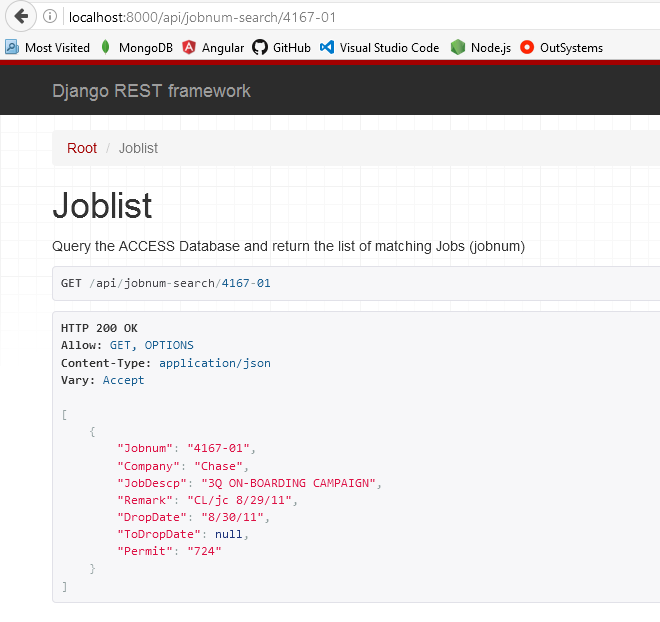
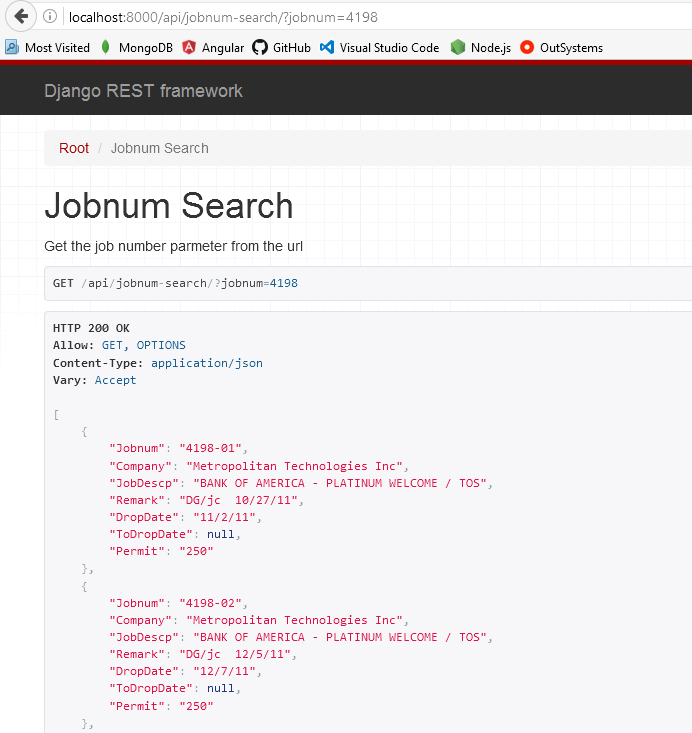
Modify Job Search url to process jobnum as a parm

diff --git a/pyACCESS/api/views.py b/pyACCESS/api/views.py
@@ -15,9 +15,13 @@ def root(request):
     data = 'Welcome to the pyACCESS REST API'
     return Response(data)
 
-# get list of jobs
+# Search for Job(s) by Job Number (full or partial)
 @api_view(['GET'])
-def joblist(request, jobnum):
+def jobnum_search(request):
+    """
+    Get the job number parameter from the url
+    """
+    jobnum = request.GET['jobnum']
     """
     Query the ACCESS Database and return the list of matching Jobs (jobnum)
     """

diff --git a/pyACCESS/api/urls.py b/pyACCESS/api/urls.py
@@ -3,5 +3,5 @@ from . import views
 
 urlpatterns = [
     url(r'^$', views.root),
-    url(r'^jobnum-search/([\w\-]+)$', views.joblist, name='jobnum_search'),
+    url(r'^jobnum-search/$', views.jobnum_search, name='jobnum_search'),
 ]

diff --git a/README.md b/README.md
@@ -387,13 +387,15 @@ urlpatterns = [
 ]
 ```
 ### Create the url mapping file for the api app
+along with the the job-search url the request should contain the job number (?jobnum=9999-99) to 
+search for (full or partial)
 ```Python
 from django.conf.urls import url
 from . import views
 
 urlpatterns = [
     url(r'^$', views.root),
-    url(r'^jobnum-search/([\w\-]+)$', views.joblist, name='jobnum_search'),
+    url(r'^jobnum-search/$', views.jobnum_search, name='jobnum_search'),
 ]
 ```
 
@@ -410,6 +412,15 @@ def root(request):
     """
     data = 'Welcome to the pyACCESS REST API'
     return Response(data)
+```
+When the client passes in the job number parameter in the url (?jobnum=9999-99), it is extracted from the request GET data
+```Python
+@api_view(['GET'])
+def jobnum_search(request):
+    """
+    Get the job number parameter from the url
+    """
+    jobnum = request.GET['jobnum']
 ```
 When sending "real" data back to the client, the data must be "serialized" into a format that can be accurately transmitted and received.  In this case
 **JSON** is the format (XML is also supported).  The objects (rows) returned by the **pyodbc** cursor must be converted to a list of Python Dictionaries (dict).  
@@ -440,6 +451,10 @@ the response in a formatted GUI page
 
 ![api browser get](https://github.com/edbrad/pyACCESS/blob/master/images/api/api_get_example.PNG)
 
+![api browser get - ](./images/api/api_get_example.PNG)
+
 When a direct/non-brower-based call to the API is made, response is in standard JSON text format:
 
 ![api direct get](https://github.com/edbrad/pyACCESS/blob/master/images/api/api_get_CP_example.PNG)
+
+![api direct get - ](./images/api/api_get_CP_example.PNG)
